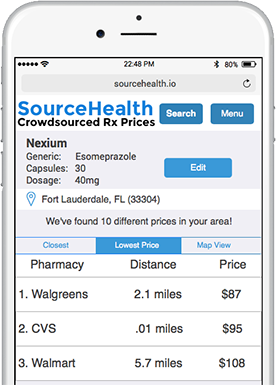
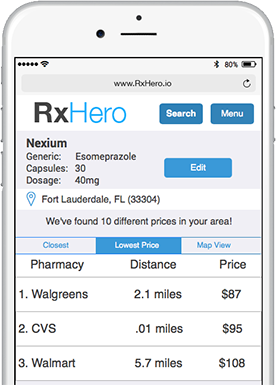
new pic

Changed region(s): [[0.058, 0.1558, 0.6377, 0.3429]]

diff --git a/templates/base/index.html b/templates/base/index.html
@@ -96,7 +96,7 @@
             <div class="row">
                 <div class="col-lg-12 text-center">
                     <h2 class="section-heading">About RxHero</h2>
-                    <h3 class="section-subheading text-muted"> Our vision is to create prescription price transparency for everyone. We are collecting millions of data point through pharmacys, drug manufacturers, and consumers just like you.
+                    <h3 class="section-subheading text-muted"> Our vision is to create prescription price transparency for everyone. We are collecting millions of data points through pharmacys, drug manufacturers, and consumers just like you.
                     </h3>
                 </div>
             </div>
@@ -137,10 +137,10 @@
                             <p class="text-muted">We will contact you when we launch. After launch, we'll have you do the following:</p>
                         <img class ="coffeed-icon" src="{% static "img/svg/two.png" %}"</>
                             <h4>Connect your health insurance account</h4>
-                            <p class="text-muted">We'll need your Rx prices to share with the crowd. Don't worry, we protect your data with the same 128-bit encryption that banks use.</p>
+                            <p class="text-muted">We'll need your Rx prices to share with everyone else. Don't worry, we protect your data with the same 128-bit encryption that banks use.</p>
                         <img class ="coffeed-icon" src="{% static "img/svg/three.png" %}"</>
                             <h4>Access the lowest prescription prices</h4>
-                            <p class="text-muted">Search for the lowest price of a prescription by lowest price or distance.</p>
+                            <p class="text-muted">Search for your prescriptions by price or distance.</p>
 
                     </div>
                 </div>

diff --git a/static/css/agency.css b/static/css/agency.css
@@ -293,7 +293,7 @@ section h3.section-subheading {
     margin-bottom: 35px;
     text-transform: none;
     font-family: "Droid Serif","Helvetica Neue",Helvetica,Arial,sans-serif;
-    font-size: 16px;
+    font-size: 18px;
     font-style: italic;
     font-weight: 400;
 }
@@ -964,14 +964,14 @@ section#contact {
 
 .btn-xl {
     padding: 20px 40px;
-    border-color: #d4a432;
+    border-color: #FED136;
     border-radius: 0px;
     text-transform: uppercase;
     font-family: Montserrat,"Helvetica Neue",Helvetica,Arial,sans-serif;
     font-size: 18px;
     font-weight: 700;
     color: #fff;
-    background-color: #d4a432;
+    background-color: #FED136;
 }
 
 .navbar-default .navbar-nav>.active>a {
